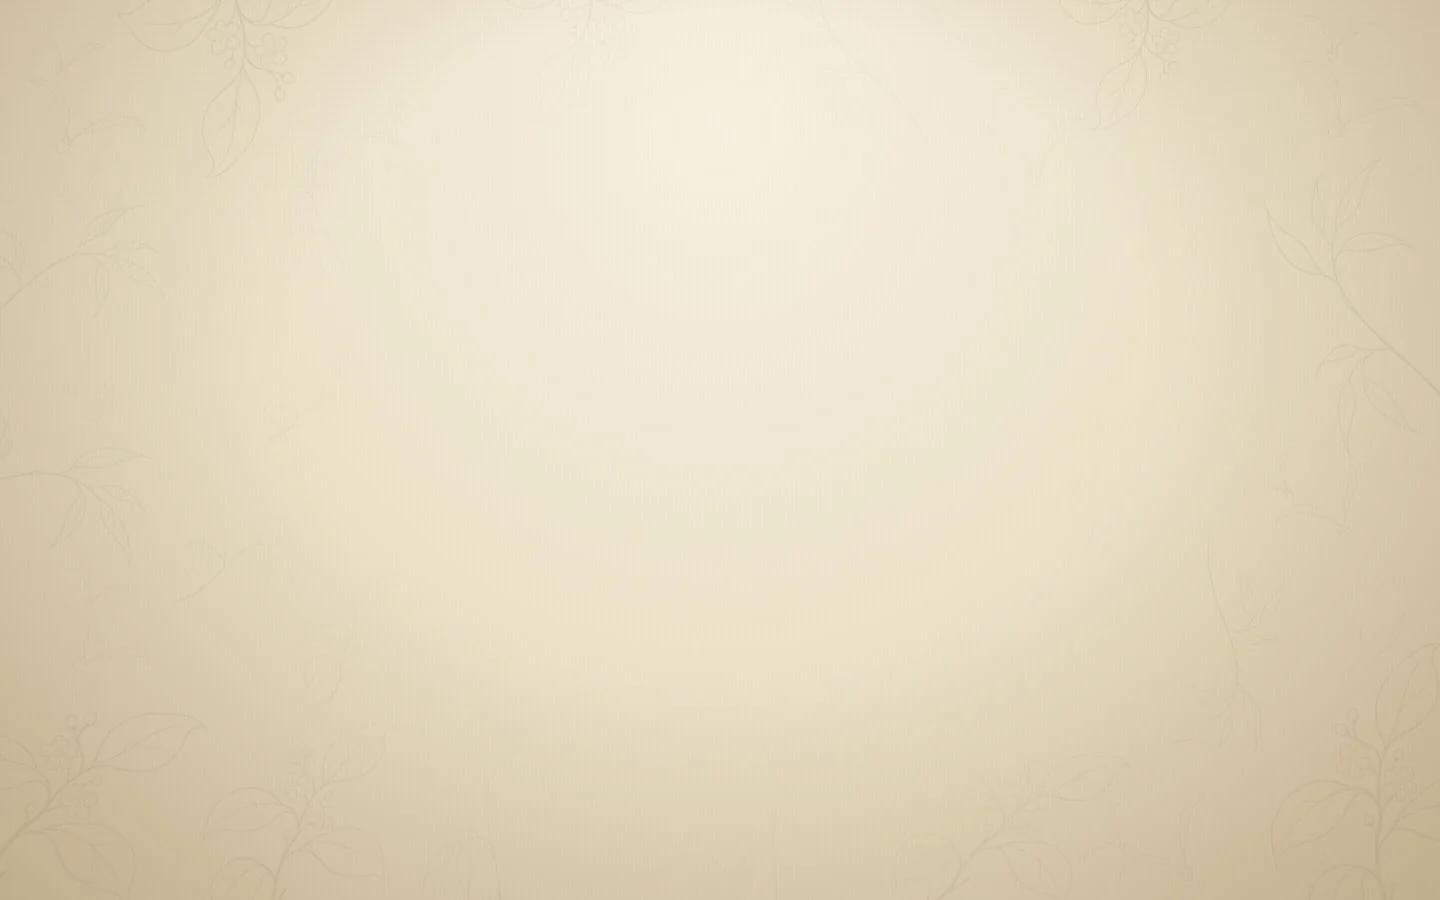
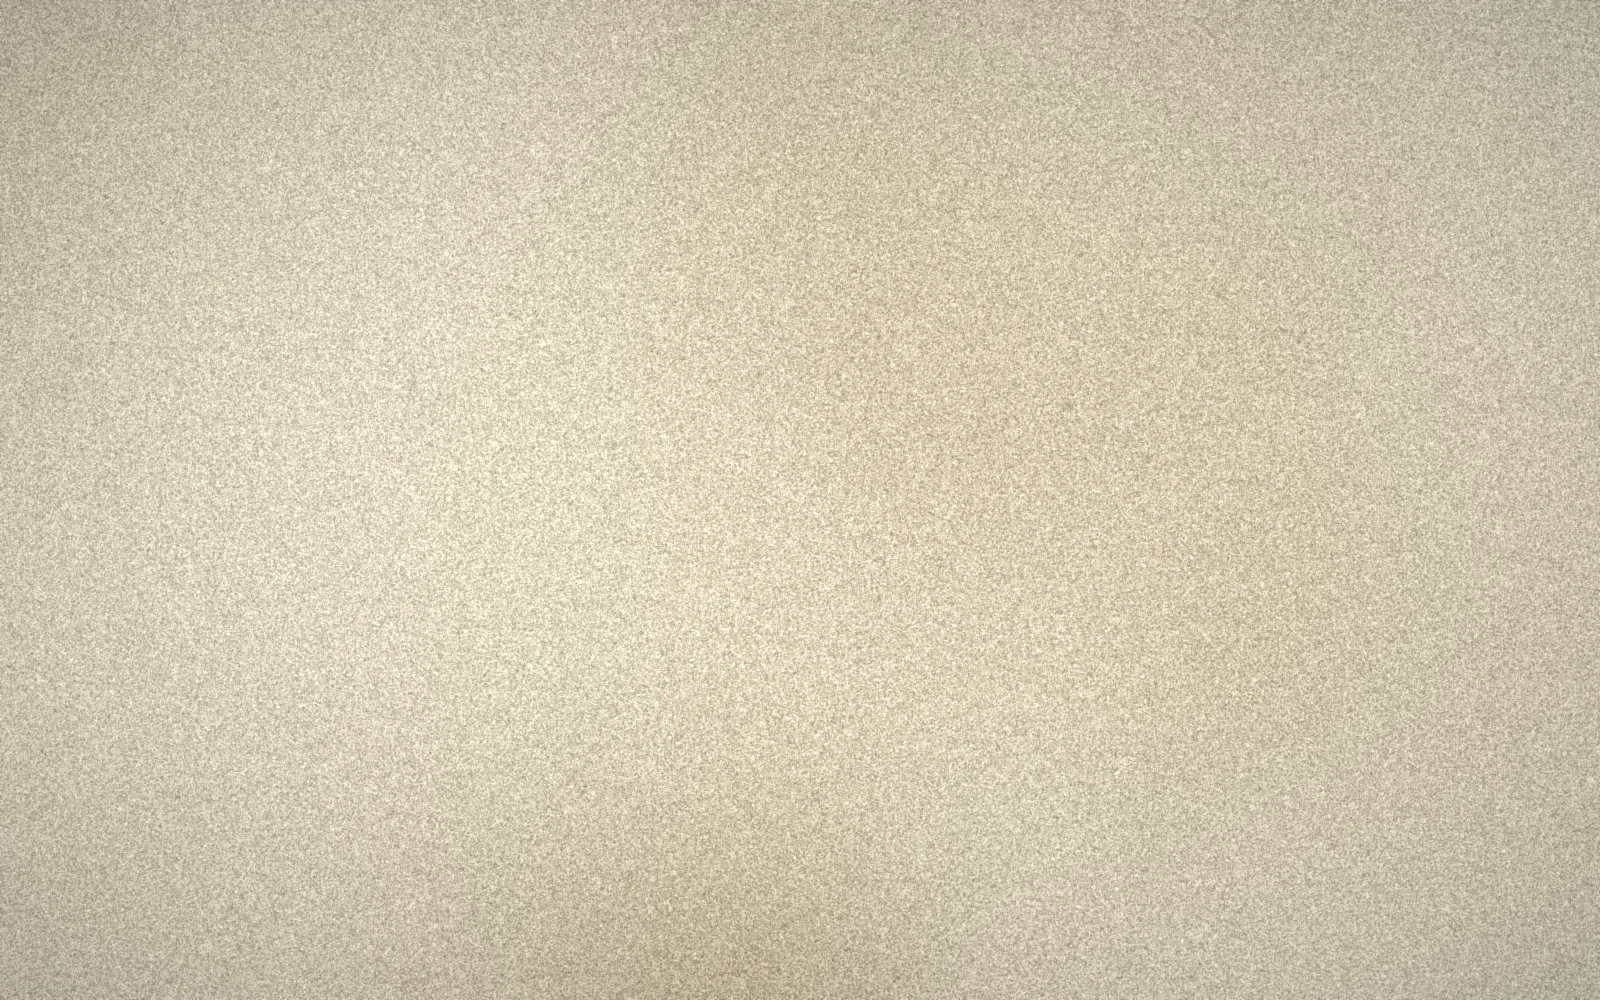
白天水彩纸底重做、抠图去蓝边、开花动效恢复、纹样收敛
- 白天背景：程序化生成水彩纸（暖宣纸底 + 26 团湿痕 + 纸纤维 + 湿边），不再靠乘暗叠层
- 香炉：alpha 反混合去蓝边；白天单独一份（蓝阴影改暖灰 + 去掉散点阴影），日夜切换自动换图
- 开花：花瓣层 0.93→1.14 倍张开 + 暖光，实测 opacity 0.53→0.93→1、scale 0.976→1.058→1.127
- 纹样：只保留 3 处角落植物，尺寸再收小
- 落地影：白天用轻暖影，夜间保持深影

diff --git a/css/vintage.css b/css/vintage.css
@@ -1773,3 +1773,108 @@ html[data-skin="vintage"][data-theme="day"] .vintage-bg .vg-paper {
   opacity: .44;
   filter: sepia(.35) brightness(1.06);
 }
+
+
+/* ============================================================
+   第六轮：白天水洗更粗粝、纹样收敛、开花动效回到“张开”
+   ============================================================ */
+
+/* 白天：把水洗做成真正的湿画布（多一层糙面 + 更强的染色） */
+html[data-skin="vintage"][data-theme="day"] .vintage-bg .vg-wash {
+  opacity: .85;
+  mix-blend-mode: multiply;
+  filter: sepia(.62) saturate(1.9) brightness(1.30) contrast(1.22);
+}
+html[data-skin="vintage"][data-theme="day"] .vintage-bg .vg-paper {
+  opacity: .7;
+  mix-blend-mode: multiply;
+  filter: sepia(.5) brightness(1.02) contrast(1.25);
+  background-size: 300px 300px;
+}
+html[data-skin="vintage"][data-theme="day"] .vintage-bg .vg-base {
+  filter: brightness(1.03) saturate(.96);
+}
+
+/* 纹样别太乱：只留三处，压到角落 */
+html[data-skin="vintage"] .vintage-bg .m3,
+html[data-skin="vintage"] .vintage-bg .m4,
+html[data-skin="vintage"] .vintage-bg .m6 { display: none; }
+html[data-skin="vintage"] .vintage-bg .m1 { width: 26vw; height: 26vw; left: -6%; bottom: -8%; opacity: .34; }
+html[data-skin="vintage"] .vintage-bg .m2 { width: 24vw; height: 24vw; right: -7%; top: -9%; opacity: .34; }
+html[data-skin="vintage"] .vintage-bg .m5 { width: 17vw; height: 17vw; right: 1%; bottom: -2%; opacity: .26; }
+
+/* 香炉：白天不要蓝影，改用柔和暖影 */
+html[data-skin="vintage"][data-theme="day"] .censer-wrap .censer-art {
+  filter: drop-shadow(0 12px 18px rgba(120, 98, 70, .18));
+}
+
+/* 开花动效：花瓣整片张开 14%，带一点提亮和暖光 */
+html[data-skin="vintage"] .censer-art.censer-bloom {
+  --bloom-cx: 50%;
+  --bloom-cy: 40%;
+  transform-origin: var(--bloom-cx) var(--bloom-cy);
+  transform: scale(.93);
+  opacity: 0;
+  filter: saturate(1.12) brightness(1.06) drop-shadow(0 0 18px rgba(255, 190, 190, .45));
+  transition: opacity 1.9s cubic-bezier(.34, .1, .28, 1),
+              transform 2.1s cubic-bezier(.22, .68, .3, 1);
+}
+html[data-skin="vintage"] body.is-igniting:not(.is-lit) .censer-art.censer-bloom {
+  opacity: .55;
+  transform: scale(.99);
+  transition: opacity .7s ease, transform 1.3s cubic-bezier(.3, .6, .4, 1);
+}
+html[data-skin="vintage"] body.is-lit .censer-art.censer-bloom {
+  opacity: 1;
+  transform: scale(1.14);
+  transition: opacity 1.4s ease, transform 1.7s cubic-bezier(.2, .72, .3, 1);
+}
+
+
+/* 白天最后一道提亮：把水洗过的纸拉回暖宣纸的明度 */
+html[data-skin="vintage"][data-theme="day"] .vintage-bg::before {
+  content: "";
+  position: absolute;
+  inset: 0;
+  background:
+    radial-gradient(120% 90% at 50% 44%, rgba(255, 249, 236, .40) 0%, rgba(255, 249, 236, 0) 62%),
+    linear-gradient(180deg, rgba(255, 250, 238, .26), rgba(255, 248, 235, .12));
+  mix-blend-mode: soft-light;
+  pointer-events: none;
+}
+
+/* 白天的落地影轻一点，别压出脏灰 */
+html[data-skin="vintage"][data-theme="day"] .censer-ground-shadow {
+  background: radial-gradient(ellipse at center, rgba(126, 104, 74, .20) 0%, transparent 70%);
+  filter: blur(10px);
+}
+html[data-skin="vintage"][data-theme="night"] .censer-ground-shadow {
+  background: radial-gradient(ellipse at center, rgba(16, 24, 34, .38) 0%, transparent 70%);
+}
+
+
+/* 白天：底图本身已是水彩纸，额外涂层降到“只加质感不加暗” */
+html[data-skin="vintage"][data-theme="day"] .vintage-bg .vg-wash {
+  opacity: .28;
+  mix-blend-mode: multiply;
+  filter: sepia(.4) saturate(1.2) brightness(1.5);
+}
+html[data-skin="vintage"][data-theme="day"] .vintage-bg .vg-paper {
+  opacity: .34;
+  mix-blend-mode: overlay;
+  filter: none;
+  background-size: 360px 360px;
+}
+html[data-skin="vintage"][data-theme="day"] .vintage-bg .vg-base {
+  filter: none;
+}
+html[data-skin="vintage"][data-theme="day"] .vintage-bg::before {
+  background:
+    radial-gradient(130% 95% at 50% 44%, rgba(255, 250, 238, .22) 0%, rgba(255, 250, 238, 0) 64%);
+  mix-blend-mode: screen;
+}
+html[data-skin="vintage"][data-theme="day"] .vintage-bg .vg-motif {
+  opacity: .42;
+  mix-blend-mode: multiply;
+  filter: sepia(.25) contrast(1.05);
+}

diff --git a/index.html b/index.html
@@ -120,7 +120,7 @@
           <div class="glow-layer glow-petals" aria-hidden="true"></div>
           <div class="glow-layer glow-flash" id="censerFlash" aria-hidden="true"></div>
           <div class="censer-ground-shadow" aria-hidden="true"></div>
-          <img class="censer-art censer-art-day" src="assets/censer/product.webp"
+          <img class="censer-art censer-art-day" src="assets/censer/product-day.webp"
                width="1254" height="1254" alt="" aria-hidden="true" draggable="false" />
           <img class="censer-art censer-art-night" src="assets/censer/product.webp"
                width="1254" height="1254" alt="" aria-hidden="true" draggable="false" />

diff --git a/js/vintage.js b/js/vintage.js
@@ -92,6 +92,12 @@
 
   function syncTheme() {
     var night = html.getAttribute('data-theme') === 'night';
+    var dayArt = doc.querySelector('.censer-art-day');
+    var bloomArt = doc.querySelector('.censer-bloom');
+    if (dayArt) dayArt.src = 'assets/censer/product-day.webp';
+    if (bloomArt) {
+      bloomArt.src = night ? 'assets/censer/bloom-open.webp' : 'assets/censer/bloom-open-day.webp';
+    }
     if (themeIcon) {
       themeIcon.src = 'assets/vintage/icons/' + (night ? 'night' : 'day') + '.png';
       themeIcon.alt = '';
